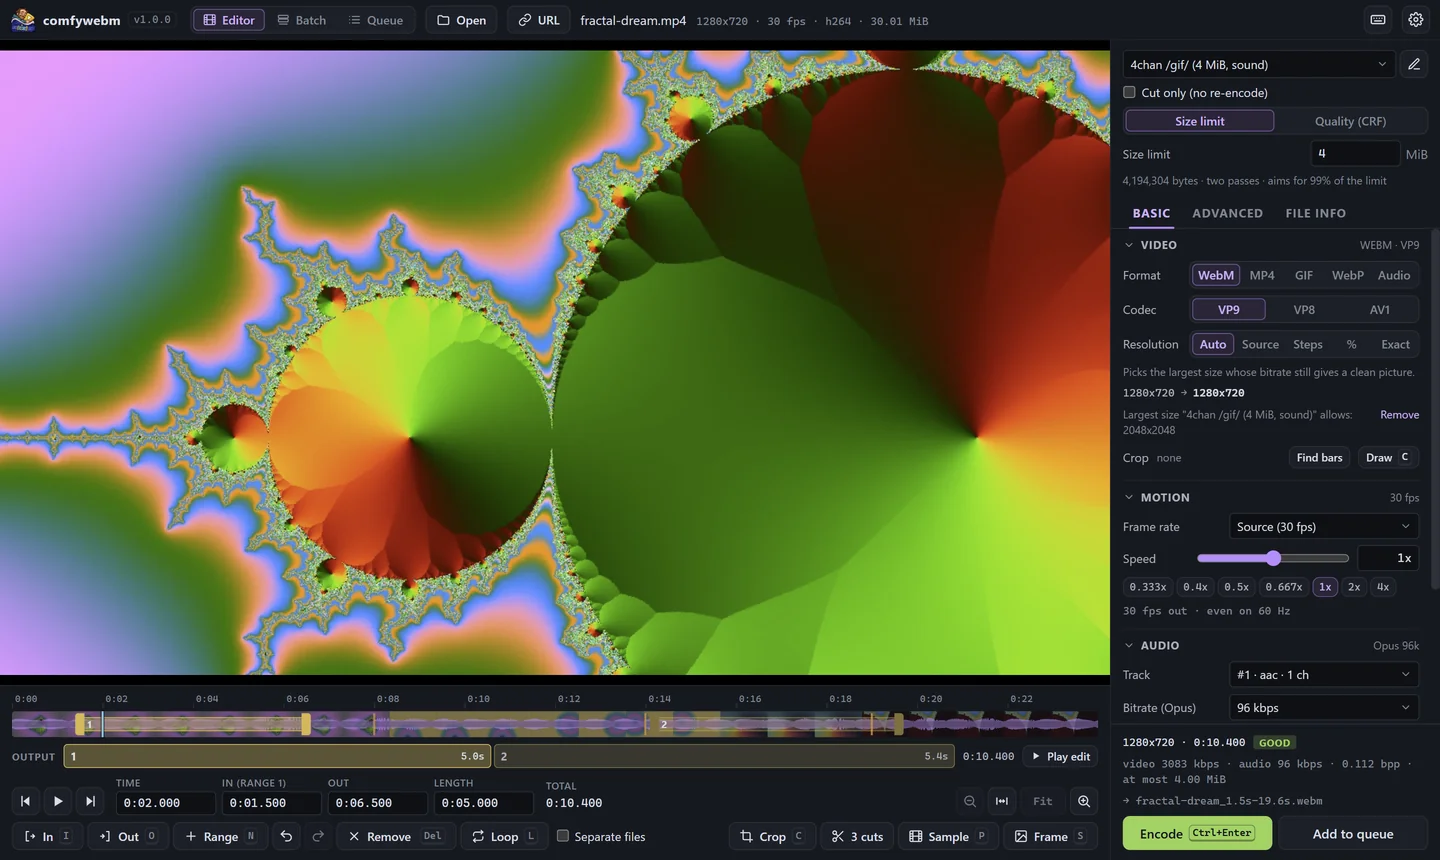
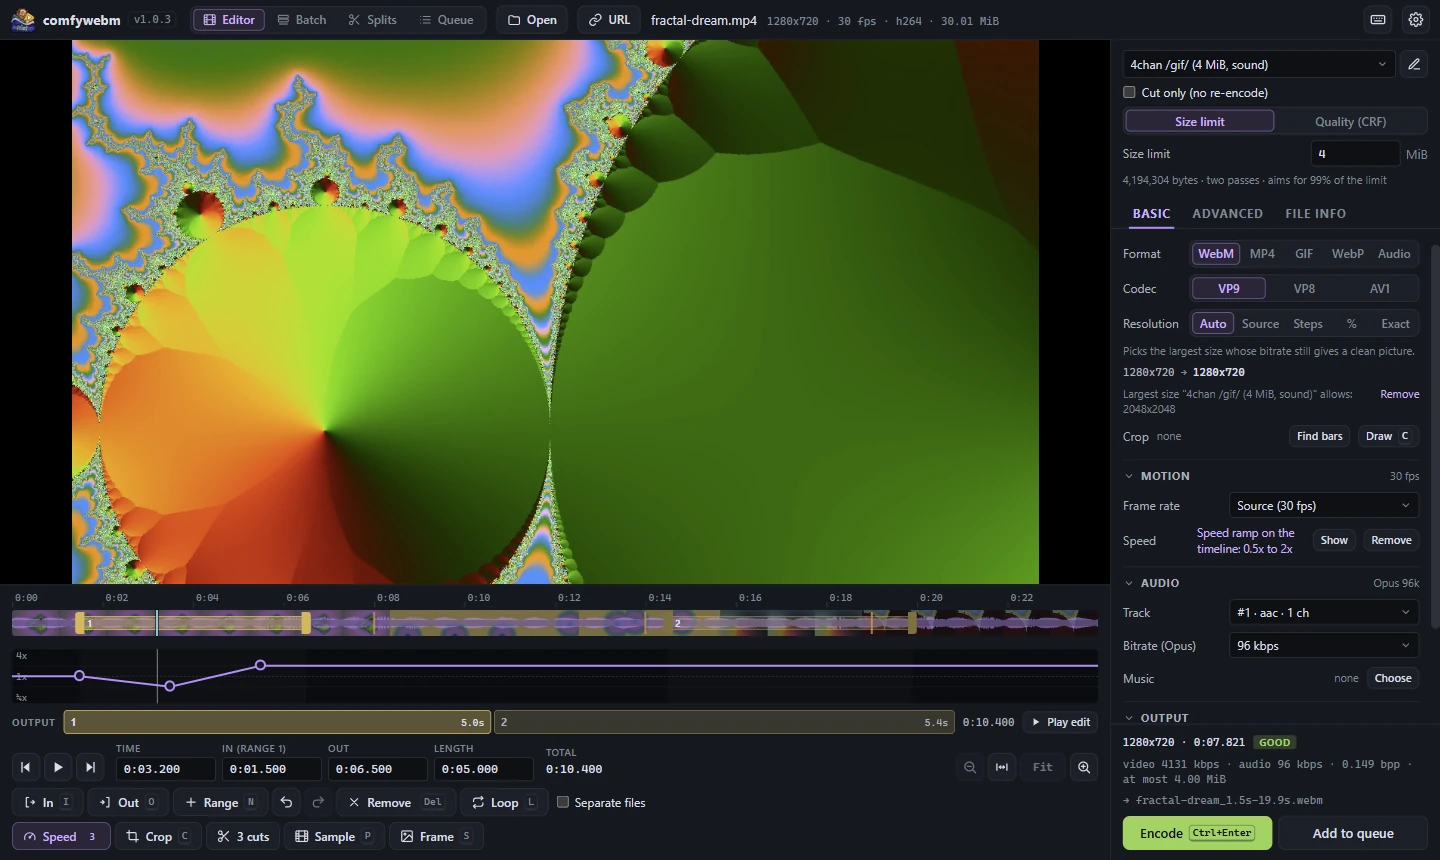
README: Splits screenshot, the editor with a speed ramp, highlights
screenshots/editor.webp is taken again with the speed ramp lane (the same
file, ranges and cuts as before); screenshots/splits.webp is new: a video
beside a picture. The highlights mention pictures, crop and zoom, sizes by
hand in Splits, and the speed ramp.

diff --git a/README.md b/README.md
@@ -53,19 +53,21 @@ Windows, Linux and macOS.
   waveform behind them, snapping, scene cut detection, undo and redo, frame
   stepping, loop playback.
 - **Picture**: crop with aspect presets and black bar detection, rotate,
-  mirror, speed from 0.25x to 4x with interpolation for slow motion, reverse
-  and boomerang, fades, brightness / contrast / saturation / gamma / hue and a
-  curve, HDR to SDR tone mapping.
+  mirror, speed from 0.25x to 4x with interpolation for slow motion, a speed
+  ramp drawn on the timeline (the sound follows it), reverse and boomerang,
+  fades, brightness / contrast / saturation / gamma / hue and a curve, HDR to
+  SDR tone mapping.
 - **On top**: captions in any installed font and color, at the top, bottom or
   dragged anywhere; a watermark in a corner, dragged anywhere or tiled
   (optionally turned, for diagonal rows); burned-in subtitles.
 - **Formats**: WebM (VP9, VP8, AV1), MP4 (H.264, HEVC, AV1), GIF, animated
   WebP, and sound only (Opus, MP3, AAC). Cut-only stream copy when nothing
   else changes. Sound files with a picture become a video.
-- **Splits**: combine clips of any size, shape and frame rate into one, one
-  after another or at the same time side by side, stacked or in a grid. Pick
-  the final shape, the shape of each part and the size from plain buttons;
-  each clip fits its space whole, filled, or over a blurred copy.
+- **Splits**: combine videos and pictures of any size, shape and frame rate
+  into one, side by side, stacked, in a grid or one after another. Pick the
+  final shape, the shape of each part and the size from plain buttons; each
+  clip fits its space whole, filled, or over a blurred copy, and can be
+  cropped and zoomed. Drag the line between parts to size them by hand.
 - **Many files**: a batch tab that checks every file against the settings and
   offers one-click fixes, joining files into one, and an encode queue that
   survives restarts.
@@ -76,8 +78,13 @@ Windows, Linux and macOS.
 ## Screenshots
 
 <div align="center">
-  <img src="screenshots/editor.webp" alt="The editor: player with the crop and caption preview, timeline with ranges, thumbnails and waveform, and the settings sidebar" width="860">
-  <br><sub>The editor: preview, timeline with ranges, thumbnails, waveform and scene cuts, and the settings on the right</sub>
+  <img src="screenshots/editor.webp" alt="The editor: player, timeline with two ranges, thumbnails, waveform and scene cuts, a speed ramp lane under it, and the settings sidebar" width="860">
+  <br><sub>The editor: preview, timeline with ranges, thumbnails, waveform and scene cuts, a speed ramp, and the settings on the right</sub>
+</div>
+
+<div align="center">
+  <img src="screenshots/splits.webp" alt="The Splits tab: a video beside a picture, with the choices on the left and each clip's trim track" width="860">
+  <br><sub>Splits: a video beside a picture, with plain choices on the left, a live preview and each clip's trim track</sub>
 </div>
 
 | | |
